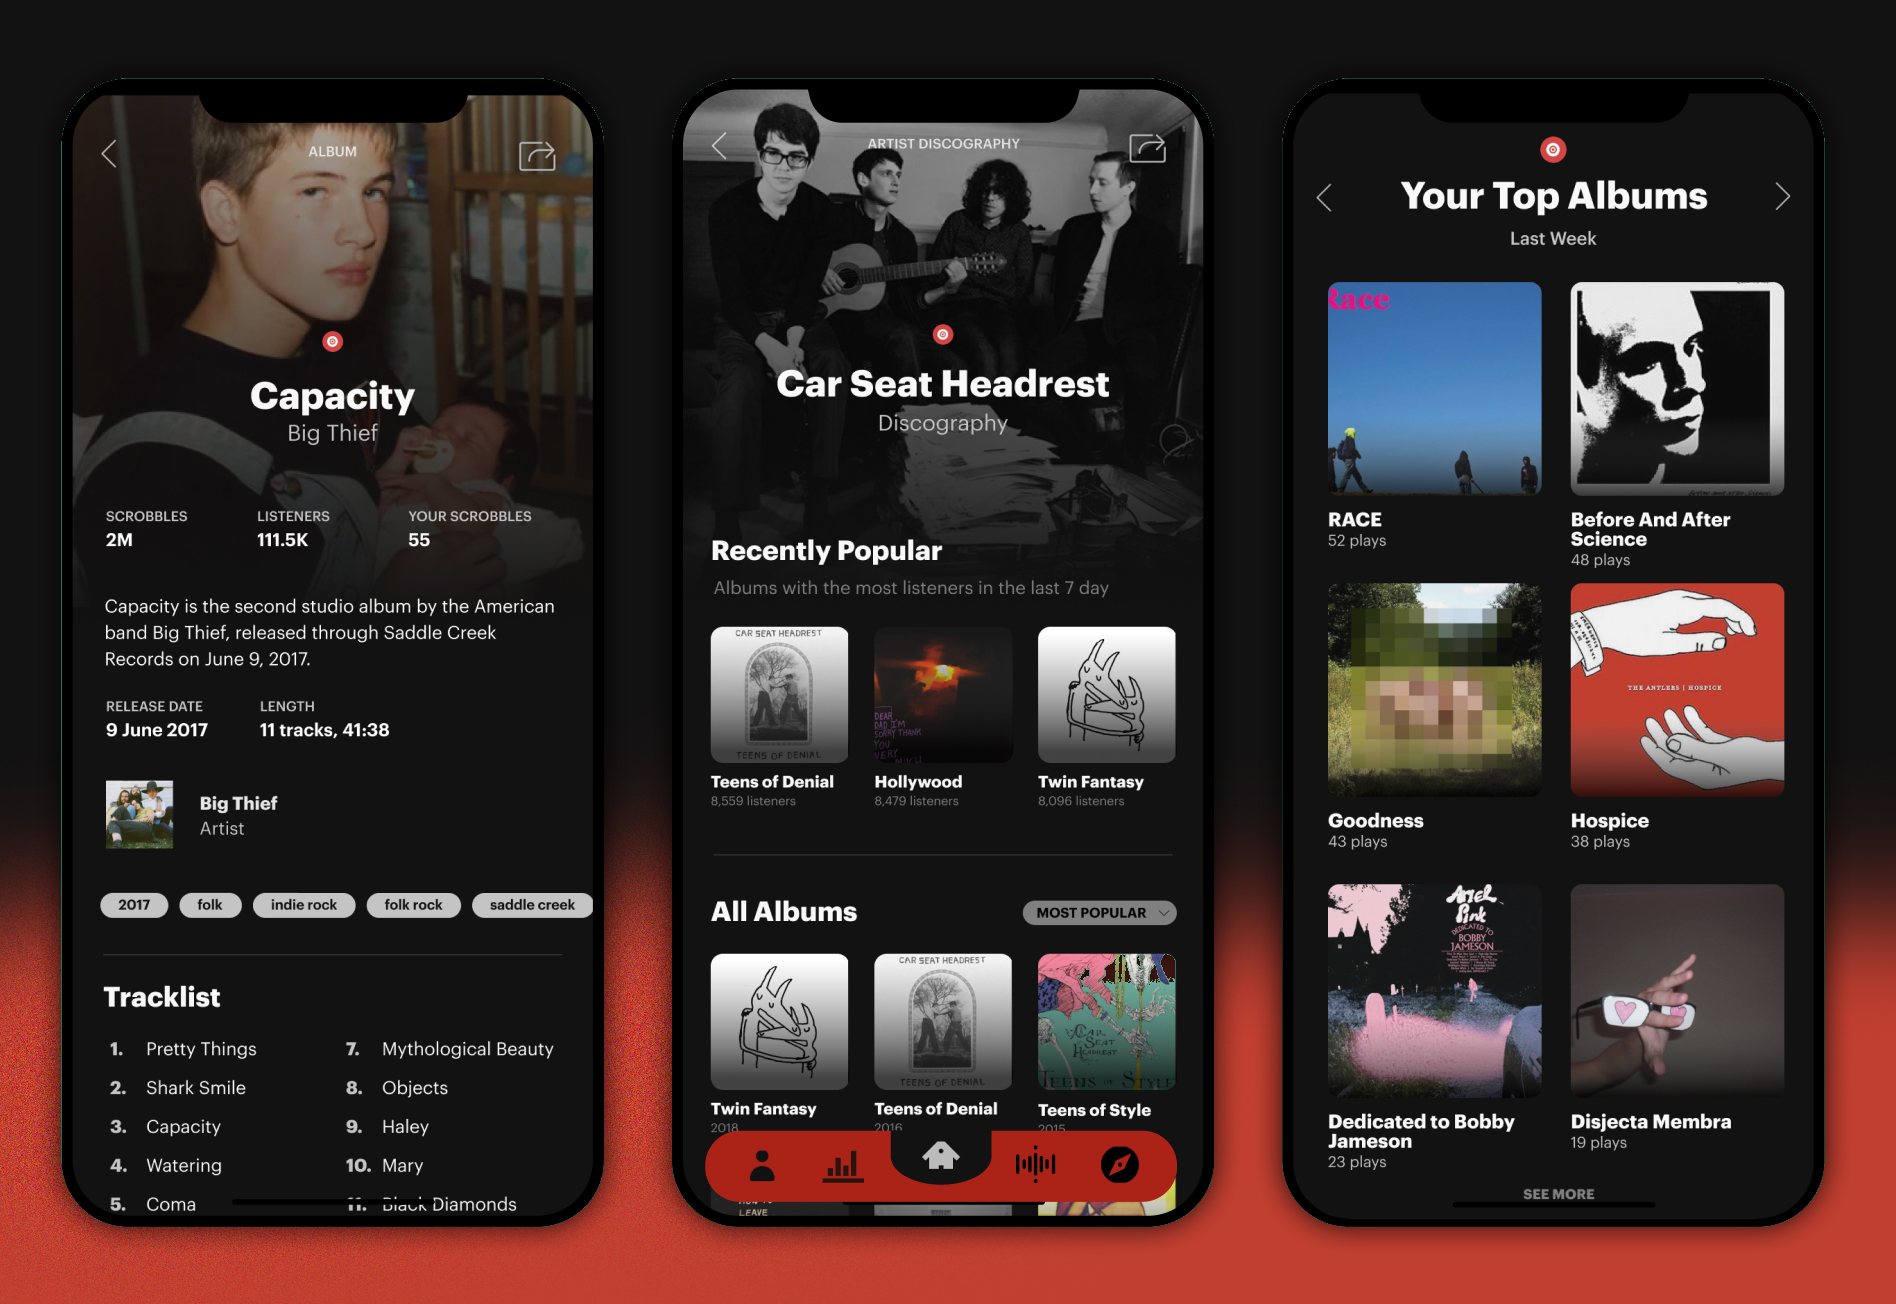
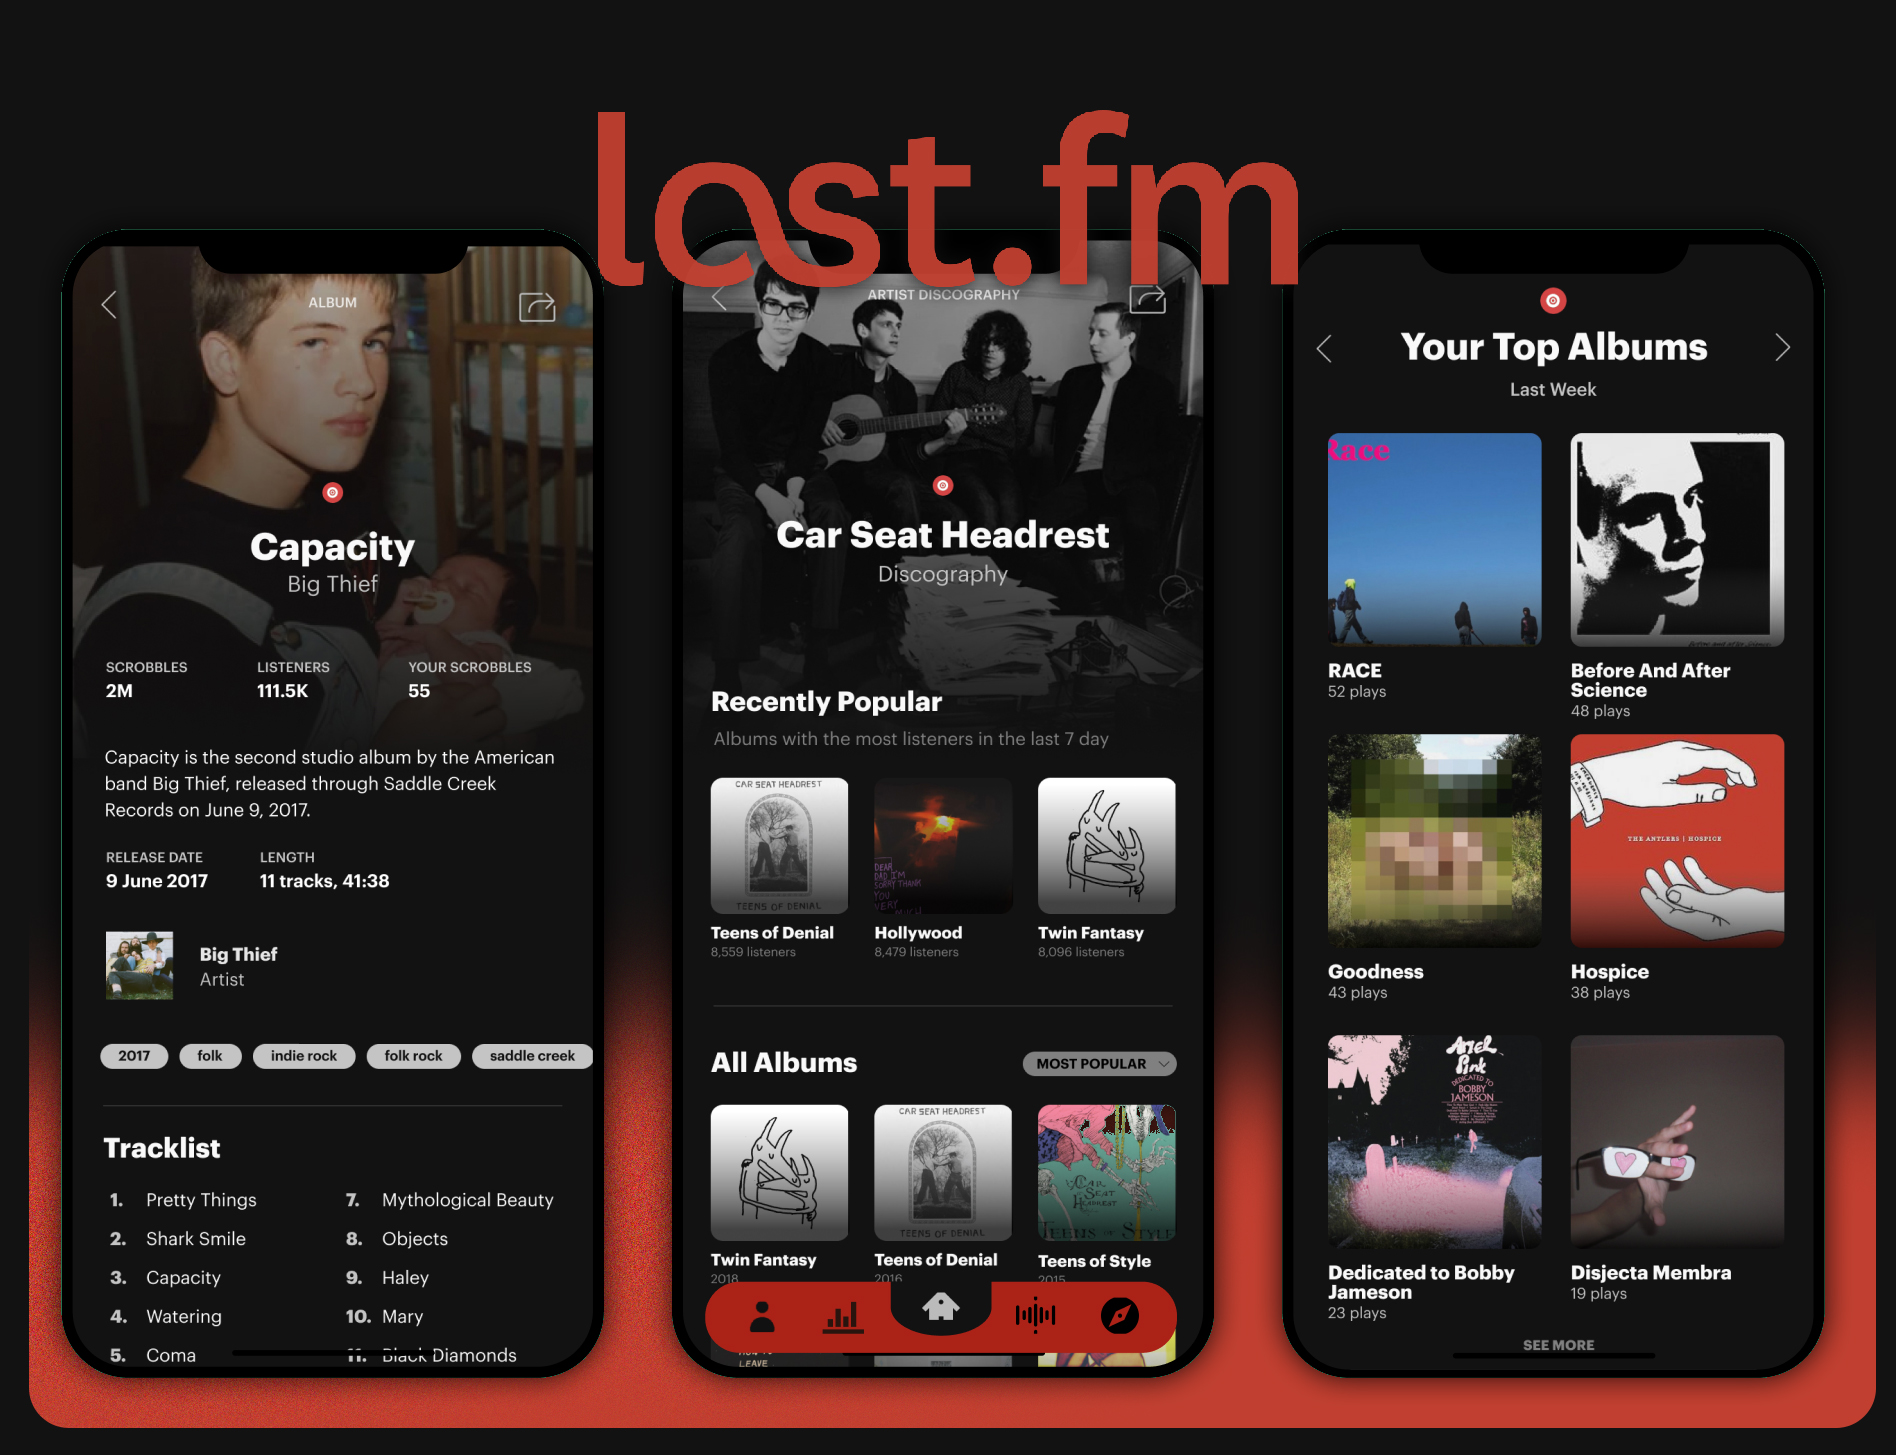
add new overview on redesigned screens

diff --git a/public/work/lastfm.html b/public/work/lastfm.html
@@ -335,14 +335,15 @@
                     <h1>A redesigned musicscape</h1>
 
                     <p>Last.fm is an incredible product that has the potential to expand its existing demographic and userbase (largely diehard music fans, extensive listeners) into the masses. By pushing on screens and nudging the user towards discovery, I wanted to be intentional about including features that could build on this service. <em>Brainstormed on paper, here are mid-fi screens I designed.</em></p>
+                    <br>
 
+                    <div class="image-container">
 
-                    <span class="image-container">
+                        <img loading="lazy" class="image-full" src="../assets/portfolio/lastfm/screens-home-2.png">
 
-                        <img loading="lazy" class="image-full" src="../assets/portfolio/lastfm/screens-home.png">
-
+                        <br>
                         <em>Dashboard, top artist, and music (artist, album, track) screens</em>
-                    </span>
+                    </div>
 
                     <div class="col">
 
